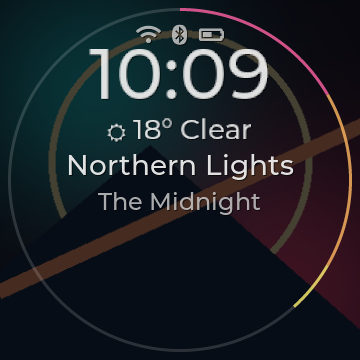
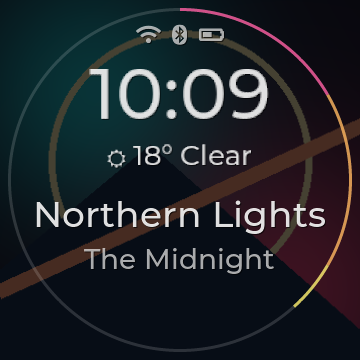
Enlarge and lower Disco standby metadata; add clock breathing room

Changed region(s): [[0.0917, 0.1222, 0.9167, 0.7639], [0.275, 0.275, 0.3056, 0.3361]]

diff --git a/ui/disco_saver.c b/ui/disco_saver.c
@@ -18,7 +18,7 @@ const lv_anim_t *disco_scroll5(void);
 
 #define NSEG 6
 static lv_obj_t *g_img, *g_t[2], *g_wx[2], *g_ti[2], *g_ar[2], *g_status[2], *g_seg[NSEG], *g_tr;
-static lv_font_t g_wf;
+static lv_font_t g_wf,g_title_font,g_artist_font;
 static char g_last[16];
 static int g_batt=-1,g_charging,g_wifi,g_bt;
 void dsaver_set_status(int batt,int charging,int wifi,int bt);
@@ -85,14 +85,16 @@ void dsaver_create(lv_obj_t *root){
     lv_obj_set_style_bg_opa(veil, 175, 0); lv_obj_clear_flag(veil, LV_OBJ_FLAG_CLICKABLE | LV_OBJ_FLAG_SCROLLABLE);
     g_tr = rim_arc(root, TC(FIXED_MEDIA_WHITE), 3, 40); lv_arc_set_angles(g_tr, 0, 360);
     for(int i = 0; i < NSEG; i++) g_seg[i] = rim_arc(root, theme_color_from_rgb(IRI[i]), 3, 200);
-    pair(root, g_t, TF(UI_48), -1, 48, 0);
+    pair(root, g_t, TF(UI_48), -1, 68, 0);
     lv_obj_set_style_transform_scale(g_t[0], 380, 0); lv_obj_set_style_transform_scale(g_t[1], 380, 0);
     ptext(g_t, "--:--");
     g_wf = *theme_font_original(24); g_wf.fallback = &font_weather16;
-    pair(root, g_wx, &g_wf, -1, 116, 0);
+    pair(root, g_wx, &g_wf, -1, 142, 0);
     for(int k=0;k<2;k++){lv_obj_set_style_transform_scale(g_wx[k],300,0);lv_obj_set_style_transform_pivot_x(g_wx[k],lv_pct(50),0);lv_obj_set_style_transform_pivot_y(g_wx[k],lv_pct(50),0);}
-    pair(root, g_ti, ui_font_cjk(28), 292, 150, 0);
-    pair(root, g_ar, ui_font_cjk(24), 280, 188, 1);
+    g_title_font=*TF(UI_36);g_title_font.fallback=ui_font_cjk(28);
+    g_artist_font=*TF(UI_28);g_artist_font.fallback=ui_font_cjk(24);
+    pair(root, g_ti, &g_title_font, 296, 194, 0);
+    pair(root, g_ar, &g_artist_font, 280, 244, 1);
     pair(root,g_status,TF(UI_20),160,20,1);dsaver_set_status(g_batt,g_charging,g_wifi,g_bt);
     for(int k = 0; k < 2; k++){                                   /* the scaled clock grows from its middle */
         lv_obj_update_layout(g_t[k]);

diff --git a/docs/RELEASE_2.4.0.md b/docs/RELEASE_2.4.0.md
@@ -14,7 +14,8 @@ Includes the complete Null theme and all cumulative 2.3.9 refinements.
 4. Library song, album, artist and playlist names use abbreviated resting labels.
    Only the focused row (nearest the screen centre, or keyboard focused) scrolls.
 5. Disco standby has a larger clock, weather and track text, with status at the
-   top and title/artist grouped around the vertical centre.
+   top and title/artist enlarged again and grouped below the vertical centre. The clock
+   sits lower with a clear margin beneath the status icons.
 6. Long Music metadata scrolls three cycles after a track change and then rests.
 7. Upper first-use hint popups move to the centre, with larger text.
 8. Null handle hint names the configured double-tap and hold shortcuts, plus
